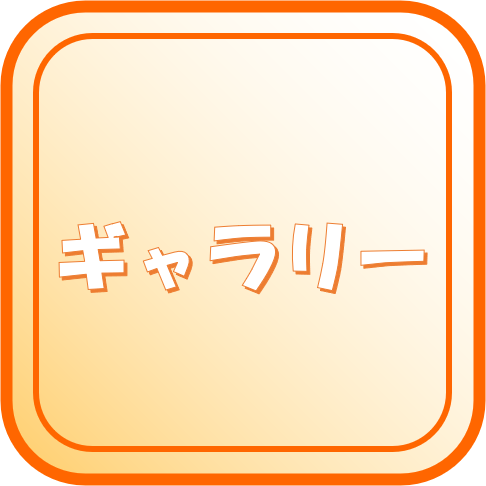
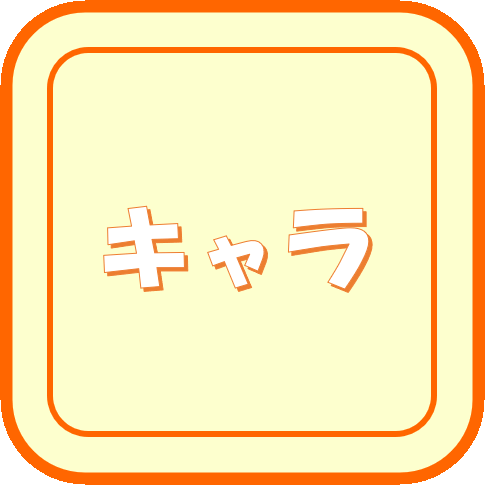
YakMusco v2
* セーブとロードの実装
* 設定メニューの追加
* クイズ、ギャラリーボタンの差し替え

diff --git a/script.js b/script.js
@@ -43,8 +43,8 @@ var quiz= [[
 ["強心配糖体は、Na/Ca交換系を直接抑制し、心筋細胞内Ca濃度を増加させる", 1, "Na,K-ATPaseを阻害して、間接的にNa/Ca交感系を抑制する。", 0],
 ["強心配糖体は、房室伝導時間を短縮し、心電図上PR間隔を短縮する", 1, "房室結節を直接抑制することにより、房室間興奮電動を遅延させるため、PR間隔の延長を伴うことがある。", 0],
 ["強心配糖体は、心拍数を減少させるので、発作性上室性頻脈の治療に用いられる。", 0, "問題文の通り。迷走神経刺激作用や刺激伝導速度の抑制により心拍数を減少させる。", 0],
-["強心配糖体は、心室筋の自動性を高めるので、副作用として心室期外収縮を起こす", 0, "問題文の通り。"],
-["強心配糖体は、低カリウム血症を起こす利尿薬との併用により、ジギタリス中毒が増強される", 0, "問題文の通り。"],
+["強心配糖体は、心室筋の自動性を高めるので、副作用として心室期外収縮を起こす", 0, "問題文の通り。", 0],
+["強心配糖体は、低カリウム血症を起こす利尿薬との併用により、ジギタリス中毒が増強される", 0, "問題文の通り。", 0],
 ["リシノプリルは、アンジオテンシンⅡの分解を阻害して、心筋のリモデリングを抑制する", 1, "リシノプリルはACE阻害薬であり、アンジオテンシンⅡの生成を阻害することで心筋リモデリングを抑制する。また、血管を拡張させ心負荷を軽減する。", 0],
 ["心不全患者で、「座っていれば問題無いが、少し散歩するだけでも息切れがする」という症状の重症度は、NYHA機能分類はⅢ度（中等度～重症）にあたる", 0, "問題文の通り。Ⅰ度は「身体活動では症状無し」、Ⅱ度は「普通の身体活動で、疲労、呼吸困難などが出現し、通常の身体活動がある程度制限される」、Ⅲ度は「普通以下の身体活動で、愁訴出現し、通常の身体活動が高度に制限される」、Ⅳ度は、「安静時にも呼吸困難を示す」", 0]],
 
@@ -83,7 +83,7 @@ var chara=[[
 ["img/chara/nife.png", 0, "ニフェカラント", "<p>Ⅲ群の抗不整脈薬。</p><p>Kイオンチャネルを遮断する。活動電位持続時間を延長する。</p>"],
 
 ["img/chara/verap.png", 0, "ベラパミル", "<p>Ⅳ群の抗不整脈薬。</p><p>洞房結節や房室結節のL型Caチャネルを遮断することで、頻脈性不整脈を改善する。</p><p>ケシ属の植物(poppy)から単離される、血管拡張・鎮痙剤「パパベリン」の誘導体。</p>"],
-["img/chara/bepri.png", 0, "ベプリジル", "<p>Ⅳ群の抗不整脈薬。</p><p>洞房結節や房室結節のL型Caチャネルを遮断することで、頻脈性不整脈を改善する。</p><p>その他、Naチャネル、Caチャネルの遮断作用を示す。</p>"],
+["img/chara/bepri.png", 0, "ベプリジル", "<p>Ⅳ群の抗不整脈薬。</p><p>洞房結節や房室結節のL型Caチャネルを遮断することで、頻脈性不整脈を改善する。</p><p>その他、Naチャネル、Kチャネルの遮断作用を示す。</p>"],
 
 ["img/chara/atro.png", 0, "アトロピン", "<p>非選択的ムスカリン性アセチルコリン受容体遮断薬。</p><p>心拍数を増加させ、徐脈の治療に用いられる。</p><p>ベラドンナという植物の根っこ（ベラドンナコン）由来。</p><p>"],
 ["img/chara/isop.png", 0, "イソプレナリン", "<p>β刺激薬。</p><p>β1受容体刺激による心機能を促進させる。</p><p>名前の由来は、「アドレナリン」のメチル基を「イソプロピル基」に変えた構造であることから。</p><p>Raymond P. Ahlquistは、本薬を用いた研究で、アドレナリン受容体がαとβという2種類に分けられることを発見した。</p>"]
@@ -115,10 +115,158 @@ chara_get=[0,0];
 
 home_tachie = [0,0];
 
+save_sinsu = 
+["0", "1", "2", "3", "4", "5", "6", "7", "8", "9", 
+"a", "b", "c", "d", "e", "f", "g", "h", "i", "j",
+"k", "l", "m", "n", "o", "p", "q", "r", "s", "t", 
+"u", "v", "w", "x", "y", "z", "A", "B", "C", "D", 
+"E", "F", "G", "H", "I", "J", "K", "L", "M", "N", 
+"O", "P", "Q", "R", "S", "T", "U", "V", "W", "X", 
+"Y", "Z", "!", "?"];
+
+//=========================================================
 function save_make(){
+	var unit_length = 0;
+	var ans = "";
+	var if_ryaku = true;
 	
+	for(var i = 0; i < quiz.length; i++){
+		var ans_temp = "";
+		
+		if((quiz[i].length / 6) != Math.floor(quiz[i].length / 6)){
+			unit_length = Math.floor(quiz[i].length / 6) + 1;
+		}else{
+			unit_length = Math.floor(quiz[i].length / 6);
+		}
+		
+		for(var j = 0; j< unit_length; j++){
+			var num_temp = 0;
+			
+			for(var k = 0; k<=5; k++){
+				if((j*6)+k >= quiz[i].length){
+					break;
+				}else if(quiz[i][(j*6)+k][3] != 0){
+					num_temp += Math.pow(2,k);
+				}
+			}
+			
+			if(num_temp != 0){
+				if_ryaku = false;
+			}
+			
+			ans_temp += save_sinsu[num_temp];
+		}
+		if(!if_ryaku){
+			ans += ans_temp;
+		}
+		
+		if_ryaku = true;
+		ans += ":";
+	}
+
+	ans += "&";
+	//~~~~~~~~~~~~~~~~~~~~~~~~~~~~~~~~~~~~~~~~~~~~~~~~~~~~~~~~~~~~~~~~~~~~~~~~~~~~
+	
+	unit_length = 0;
+	if_ryaku = true;
+	
+	for(var i = 0; i < chara.length; i++){
+		var num_temp = chara[i].length-1;
+		for(var j=0; j< chara[i].length; j++){
+			if(chara[i][j][1] != 1){
+				num_temp = j-1;
+				break;
+			}
+		}
+		ans += (save_sinsu[num_temp] + ":");
+	}
+
+	document.getElementById("save_write").innerHTML = ans;
+				
 }
 
+//======================================================
+function mysaveindexOf(n){
+	return(save_sinsu.indexOf(n));
+}
+//======================================================
+
+function change64to2(n){
+	var ans = [0,0,0,0,0,0];
+	
+	var sin64 = n;
+	
+	for(var i=0; i<6; i++){
+		if(sin64 == 1){
+			ans[i] = 1;
+			break;
+		}else if(sin64 % 2 == 1){
+			ans[i] = 1;
+		}
+		sin64 = Math.floor(sin64/2);
+	}
+	
+	return(ans);
+}
+	
+//======================================================
+	
+function save_load(){
+	var str = prompt("セーブデータを入力してください。");
+	
+	try {
+		var kugiri = str.indexOf("&");
+		var quiz_save = str.substr(0, kugiri);
+		var chara_save = str.substr(kugiri+1);
+		
+		console.log(quiz_save);
+		console.log(chara_save);
+		
+		var quiz_save_unit_arr = quiz_save.split(":");
+		var chara_save_unit_arr = chara_save.split(":");
+		
+		
+		for(var i=0; i<quiz_save_unit_arr.length-1; i++){
+			var quiz_save_arr = quiz_save_unit_arr[i].split("");
+			
+			if(quiz_save_arr.length == 0){
+				alert("記帳無し:" + i);
+				for(var j=0; j< quiz[i] .length; j++){
+					quiz[i][j][3]=0;
+				}
+			}else{			
+				for(var j=0; j<quiz_save_arr.length;j++){
+					var temp_arr = change64to2(mysaveindexOf(quiz_save_arr[j]));
+					for(var k=0; k<6;k++){
+						if((j*6)+k < quiz[i].length){
+							quiz[i][(j*6)+k][3] = temp_arr[k];
+						}else{
+							break;
+						}
+					}
+				}		
+			}
+		}
+		
+		
+		for(var i=0; i< chara_save_unit_arr.length-1; i++){
+			var kakutokukokomade = mysaveindexOf(chara_save_unit_arr[i]);
+			for(var j=0; j<chara[i].length; j++){
+				if(j <= kakutokukokomade){
+					chara[i][j][1] = 1;
+				}else{
+					chara[i][j][1] = 0;
+				}
+			}
+		}
+		
+		alert("ロードが完了しました");
+		change_ran(2);
+		
+	} catch (error) {
+		alert("すみませんが、よくわかりませんでした。");
+	}
+}
 //======================================================
 function bookmarking(){
 	var img_bookmark = document.getElementById("bookmark");
@@ -430,7 +578,6 @@ function quiz_show(){
 			break;
   } */
   
-  
 }
 //======================================================
 function change_ran(rannum){
@@ -441,7 +588,7 @@ function change_ran(rannum){
     document.getElementById("home").style.display="none";
     document.getElementById("gallery").style.display="block";
     document.getElementById("quiz").style.display="none";
-    /* document.getElementById("setting").style.display="none"; */
+    document.getElementById("setting").style.display="none";
     change_img(0);
     break;
     
@@ -449,7 +596,7 @@ function change_ran(rannum){
     document.getElementById("home").style.display="block";
     document.getElementById("gallery").style.display="none";
     document.getElementById("quiz").style.display="none";
-    /* document.getElementById("setting").style.display="none"; */
+    document.getElementById("setting").style.display="none";
 		//change_home_chara();
     break;
     
@@ -457,17 +604,18 @@ function change_ran(rannum){
     document.getElementById("home").style.display="none";
     document.getElementById("gallery").style.display="none";
     document.getElementById("quiz").style.display="block";
-    /* document.getElementById("setting").style.display="none"; */
+    document.getElementById("setting").style.display="none";
     quiz_init();
     break;
     
-/* 		case 4:
+ 		case 4:
     document.getElementById("home").style.display="none";
     document.getElementById("gallery").style.display="none";
     document.getElementById("quiz").style.display="none";
     document.getElementById("setting").style.display="block";
+		save_make();
     break;
-		 */
+
 		
     default:
       alert("エラー！");

diff --git a/index.html b/index.html
@@ -3,7 +3,7 @@
 <head>
 <link href="style.css" rel="stylesheet">
 <meta charset="UTF-8"> <!--日本語-->
-<title>YakMusco v_1.3</title>
+<title>YakMusco v_2</title>
 <meta name="viewport" content="width=device-width" />
 <link rel="shortcut icon" href="img/ykmc.png" type="image/png">
 
@@ -15,7 +15,7 @@
 
   <body id="mybody" class="cain_body">
     <div class="home" id="home">
-        <h1>YakMusco v_1.3</h1>
+        <h1>YakMusco v_2</h1>
 				
 					<p>
 						<label for="unit-select">単元を選択:</label>
@@ -29,6 +29,8 @@
 					
 				<img class="big_button" src="img/quiz.png" onclick="change_ran(3)"/>
 				<img class="big_button" src="img/gallery.png" onclick="change_ran(1)"/>
+				
+				<img class="setting_button" src="img/setting.png" onclick="change_ran(4)"/>
 				
 				<p style="margin:1em;">（青本、青問、薬ゼミ模試より問題を抜粋。追加してキャラクター解説は薬単 第1版、薬名[語源]事典に基づく。流布しないこと。）</p>
     </div>
@@ -77,9 +79,105 @@
         </div>
     </div>
 		
-		<!-- <div id="setting" style="display:none">
+		<div id="setting" style="display:none">
       <img class="cmnd_button" src="img/home.png" onclick="change_ran(2)"/>
-			<p>工事中</p>
-		</div> -->
+			
+			<h1>設定など</h1>
+			<h2>操作手順</h2>
+			<p>
+				<ol>
+					<li>ホーム画面の左側、「クイズ」のボタンを押します
+					<li>3問の2択クイズが出てきます。（問題番号を変更することができます。その場合、現在のクイズの進捗はリセットされます。）
+					<li>まる、ばつで回答するか、次の問題に飛ぶことができます。回答した後は、解説等を見て次の問題に飛んでください。
+					<li>3問終わると、正解数が表示されます。また、その科目のキャラクターを獲得します。
+					<li>キャラクターは、ホーム画面の右側、「キャラクター」のボタンから見ることができます。
+				</ol>
+			</p>
+			
+			<h2>セーブ</h2>
+			<p>ふっかつのじゅもん方式です。そちらのほうで、下に示されたコードを控えて置いて下さい。問題のブックマークや、キャラクターの獲得状況がコード化されています。どこかにコピペしておき、下の「データのロード」ボタンを押してコードを入力してください。
+				<div id="save_write" style="border:black solid 1px"></div>
+				<button onclick="save_load()">データのロード</button>
+			</p>
+			
+			<h2>キャラクターのデザイン</h2>
+			<p>
+			<h3>全体</h3>
+				<table>
+					<tr><td>角、やや乱雑な髪</td><td>ヤクっぽさ。</td></tr>
+					<tr><td>口を結んでいる</td><td>遮断薬、拮抗薬</td></tr>
+					<tr><td>口が笑っている</td><td>アゴニスト</td></tr>
+				</table>
+			</p>
+			
+			
+			<p>
+			<h3>局所麻酔薬</h3>
+				<table>
+					<tr><td>黄色の髪</td><td>黄色はNaの炎色反応の色。作用機序に関わる。</td></tr>
+					<tr><td>緑色の服装</td><td>コカイン、プロカイン、アミノ安息香酸エチル、テトラカイン（エメラルドグリーンの頭文字の「エ」は、エステル型の「エ」。こじつけ！）</td></tr>
+					<tr><td>植物の髪飾り</td><td>コカイン（植物由来）</td></tr>
+					<tr><td>眠そうに眼を閉じている</td><td>コカイン（麻薬である）</td></tr>
+					<tr><td>ベールに覆われている</td><td>コカイン、リドカイン（表面麻酔で用いる）</td></tr>
+					<tr><td>タイトなベルト</td><td>コカイン、メピバカイン（血管収縮作用を併せ持つ）</td></tr>
+					<tr><td>水に浸かっている</td><td>プロカイン（表面麻酔不可で注射のみ）</td></tr>
+					<tr><td>日焼け</td><td>アミノ安息香酸エチル、オキセサゼイン（酸性部位でも薬効を発揮する。酸とSunのダジャレ）</td></tr>
+					<tr><td>網靴下</td><td>リドカイン、メピバカイン、オキセサゼイン（「網」は「アミ」ド型の「あみ」というダジャレ）</td></tr>
+				</table>
+			</p>
+			
+			<p>
+			<h3>抗不整脈薬</h3>
+				<table>
+					<tr><td>黄色のネクタイ</td><td>炎色反応の色から。Na遮断薬。</td></tr>
+					<tr><td>紫色のネクタイ</td><td>炎色反応の色から。K遮断薬。</td></tr>
+					<tr><td>長いネクタイ</td><td>1a群。活動電位持続時間を延長する。</td></tr>
+					<tr><td>短いネクタイ</td><td>1b群。活動電位持続時間を短縮する。</td></tr>
+					<tr><td>中くらいのネクタイ</td><td>1c群。活動電位持続時間に影響しない。</td></tr>
+					<tr><td>青い紐のリボン</td><td>2群。（結び目の丸が2つあるから2群。赤色はα、青色はβ受容体と自分の中でルールを決めている。）</td></tr>
+					<tr><td>紫の帯のリボン</td><td>3群。（結び目の丸が3つあるから3群。炎色反応の色から、K遮断薬）</td></tr>
+					<tr><td>オレンジのバタフライボウ</td><td>4群。（結び目の丸が4つあるから4群。炎色反応の色から、Ca遮断薬））</td></tr>
+					<tr><td>植物の髪飾り</td><td>キニジン、アトロピン（植物由来）</td></tr>
+					<tr><td>緑色の服など、局所麻酔薬のプロカインと類似した恰好</td><td>プロカインアミド、フレカイニド（プロカイン類似の構造のもの）</td></tr>
+					<tr><td>黄色の服など、局所麻酔薬のリドカインと類似した恰好</td><td>リドカインや、ピルシカイニド（リドカイン類似の構造のもの）</td></tr>
+					<tr><td>水を持っている</td><td>ジソピラミド（口渇の副作用）</td></tr>
+					<tr><td>アメをなめている</td><td>シベンゾリン（低血糖の副作用）</td></tr>
+					<tr><td>ギザギザした髪</td><td>アプリンジン（「プ」は、炭素数３のプロピル構造の「プ」→3つに折れた髪）</td></tr>
+					<tr><td>水に足を浸し、手を見ている</td><td>メキシレチン（糖尿病性神経障害に用いられる→手足をケアしている）</td></tr>
+					<tr><td>角に青い飾り</td><td>プロパフェノン、アミオダロン、ソタロール、イソプレナリン（β受容体に作用する。暫定的に赤い玉飾りはα、青い玉飾りはβ受容体としている）</td></tr>
+					<tr><td>青いエプロン</td><td>プロプラノロール、ソタロール、イソプレナリン（アドレナリンは副腎皮質から分泌→副腎→腎臓→血液ろ過→清掃員→エプロンという連想）</td></tr>
+					<tr><td>黄色のヘアピン</td><td>アミオダロン、ベプリジル（炎色反応の色から。Na遮断薬）</td></tr>
+					<tr><td>オレンジのヘアピン</td><td>ソタロール（炎色反応の色から。Ca遮断薬）</td></tr>
+					<tr><td>紫のヘアピン</td><td>ニフェカラント、ベプリジル（炎色反応の色から。K遮断薬）</td></tr>
+					<tr><td>ポピーの胸飾り</td><td>ベラパミル（ポピーの植物由来）</td></tr>
+					<tr><td>チャイナ服</td><td>アトロピン（アセチルコリンは神経節にあるため、シナプス→シナ→支那→チャイナという連想）</td></tr>
+					<tr><td>長いしっぽ</td><td>アトロピン（根っこを用いるため）</td></tr>
+					<tr><td>髪の毛を後ろで2つに分けている</td><td>イソプレナリン（イソプロピル基の形状）</td></tr>
+				</table>
+			</p>
+			
+			<p>
+			<h3>強心薬</h3>
+			<table>
+				<tr><td>植物っぽいヘルメットの飾り</td><td>ジゴキシン、コルホルシンダロパート（植物由来）</td></tr>
+				<tr><td>紫色の鐘</td><td>ジゴキシン（基原植物のジギタリスを表す。花が紫色のベルのような形状をしている。）</td></tr>
+				<tr><td>とび口</td><td>コルホルシンダロパート（AC活性化→アデニル酸の構造をひっかけて輪にする→ひっかける道具→とび口という連想）</td></tr>
+				<tr><td>縄</td><td>ミルリノン・オルプリノン（PDEⅢ阻害→cAMPを分解させない→救助→命綱？→縄という、なんとなく連想）</td></tr>
+				<tr><td>消防ホース</td><td>ブクラデシン（cAMP誘導体→輪っかの構造→中空→ホースという連想）</td></tr>
+				<tr><td>筒</td><td>カルペリチド（インパルス消火システムをイメージしている。水を放出→利尿→ANPという連想）</td></tr>
+			</table>
+			</p>
+			
+			<p>
+			<h3>虚血性心疾患治療薬</h3>
+				<table>
+					<tr><td>花火玉</td><td>ニトログリセリン（火薬の原料）</td></tr>
+					<tr><td>綿あめ</td><td>硝酸イソソルビド（イソソルビドは糖の一種）</td></tr>
+					<tr><td>紫色の鉢巻き</td><td>ニコランジル（炎色反応の色から。Kチャネル開口作用を有する）</td></tr>
+					<tr><td>スイカ</td><td>ニコランジル（スイカにはKが豊富に含まれている。Kは機序に関わる）</td></tr>
+				</table>
+			</p>
+
+		</div>
   </body>
 </html>

diff --git a/style.css b/style.css
@@ -42,7 +42,15 @@ figure{
   margin:1vw;
 }
 
-
+table{
+	border: black solid 1px;
+	padding: 0px;
+}
+td{
+	border: black solid 1px;
+	margin: 0px;
+}
+	
 
 @media screen and (orientation: landscape) {
 	.cmnd_button{
